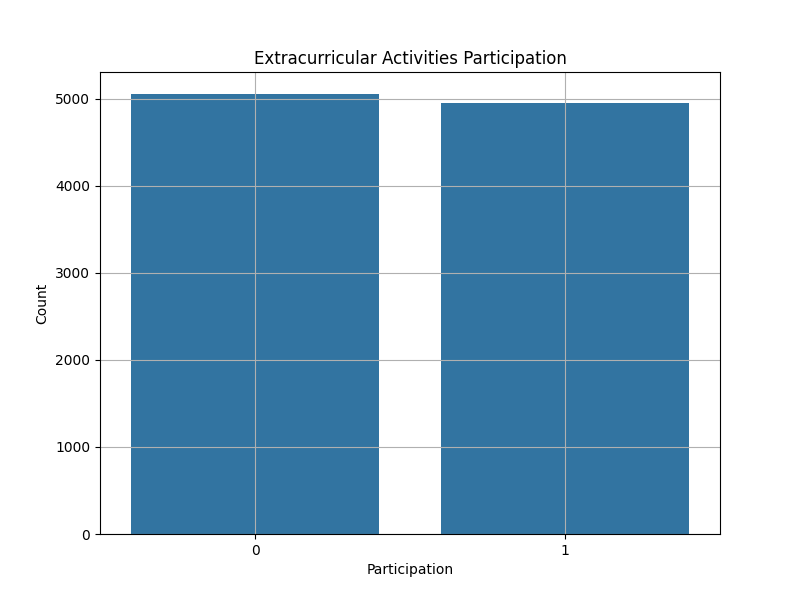
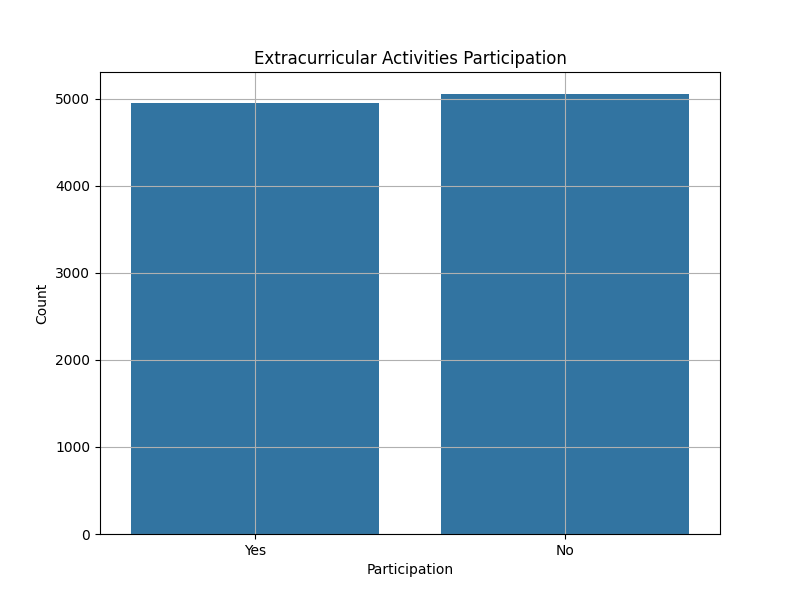
commit

diff --git a/clustering_and_fitting.py b/clustering_and_fitting.py
@@ -5,20 +5,37 @@ import seaborn as sns
 from sklearn.cluster import KMeans
 from sklearn.preprocessing import StandardScaler, PolynomialFeatures
 from sklearn.linear_model import LinearRegression
-from sklearn.metrics import silhouette_score, davies_bouldin_score, mean_squared_error, r2_score
+from sklearn.metrics import mean_squared_error, r2_score
 import scipy.stats as ss
+
 
 df = pd.read_csv('data.csv')
 
+
 def plot_relational_plot(df):
-    """Creates and saves a scatter plot of Hours Studied vs. Performance Index."""
+    """
+    Creates and saves a scatter plot of Hours Studied vs. Performance Index.
+    The plot includes an improved legend for better readability.
+    """
+    df['Extracurricular Activities'] = df['Extracurricular Activities'].map({
+        1: 'Yes', 0: 'No'
+    }).astype(str)
+
     plt.figure(figsize=(8, 6))
-    sns.scatterplot(data=df, x='Hours Studied', y='Performance Index', hue='Extracurricular Activities')
+    scatter = sns.scatterplot(
+        data=df, x='Hours Studied', y='Performance Index',
+        hue='Extracurricular Activities'
+    )
+    handles, labels = scatter.get_legend_handles_labels()
+    new_labels = ['No Extracurricular Activities (0)',
+                  'Participates in Extracurricular Activities (1)']
+    plt.legend(handles, new_labels, title='Extracurricular Activities')
     plt.title('Hours Studied vs Performance Index')
     plt.xlabel('Hours Studied')
     plt.ylabel('Performance Index')
     plt.grid(True)
     plt.savefig('relational_plot.png')
+
 
 def plot_categorical_plot(df):
     """Creates and saves a bar plot of students participating in extracurricular activities."""
@@ -30,22 +47,46 @@ def plot_categorical_plot(df):
     plt.grid(True)
     plt.savefig('categorical_plot.png')
 
+
 def plot_statistical_plot(df):
-    """Creates and saves a correlation heatmap of numerical features."""
+    """
+    Creates and saves a correlation heatmap for numerical features.
+    The heatmap visually represents feature correlations.
+    """
     plt.figure(figsize=(8, 6))
     sns.heatmap(df.corr(numeric_only=True), annot=True, cmap='coolwarm', fmt=".2f")
     plt.title('Correlation Heatmap')
     plt.savefig('statistical_plot.png')
 
-def statistical_analysis(df, col):
-    """Performs statistical analysis (mean, stddev, skewness, kurtosis, normality test)."""
-    mean = df[col].mean()
-    stddev = df[col].std()
-    skew = df[col].skew()
-    excess_kurtosis = df[col].kurtosis()
 
-    stat, p_value = ss.shapiro(df[col])
+def statistical_analysis(df, col):
+    """
+    Computes statistical properties of a column such as mean, stddev,
+    skewness, kurtosis, and normality test results.
+    """
+    mean = float(df[col].mean())
+    stddev = float(df[col].std())
+    skew = float(df[col].skew())
+    excess_kurtosis = float(df[col].kurtosis())
+
+    # Normality Test - Use Shapiro-Wilk only if N ≤ 5000, otherwise use Kolmogorov-Smirnov
+    if len(df[col]) <= 5000:
+        stat, p_value = ss.shapiro(df[col])
+        test_used = "Shapiro-Wilk Test"
+    else:
+        stat, p_value = ss.kstest(df[col], 'norm', args=(mean, stddev))
+        test_used = "Kolmogorov-Smirnov Test"
+
     normality = "Normally distributed" if p_value > 0.05 else "Not normally distributed"
+
+    # Print the results in a structured format
+    print(f"Stats for {col}:")
+    print(f"  Mean: {mean:.4f}")
+    print(f"  Std Dev: {stddev:.4f}")
+    print(f"  Skewness: {skew:.6f}")
+    print(f"  Excess Kurtosis: {excess_kurtosis:.5f}")
+    print(f"  {test_used} p-value: {p_value:.6e}")
+    print(f"  Normality: {normality}\n")
 
     return {
         'mean': mean,
@@ -56,21 +97,22 @@ def statistical_analysis(df, col):
         'normality': normality
     }
 
+
+
 def perform_clustering(df, col1, col2):
-    """Performs K-Means clustering on the dataset and visualizes it with improved readability, including an elbow plot."""
+    """
+    Performs K-Means clustering on the dataset and visualizes the results.
+    Also generates an elbow plot for optimal cluster selection.
+    """
     data = df[[col1, col2]].values
     scaler = StandardScaler()
     data_scaled = scaler.fit_transform(data)
-
-    # Elbow method to determine optimal number of clusters
     inertia = []
-    K_range = range(1, 11)  # Try cluster numbers from 1 to 10
+    K_range = range(1, 11)
     for k in K_range:
         kmeans = KMeans(n_clusters=k, random_state=42, n_init=10)
         kmeans.fit(data_scaled)
         inertia.append(kmeans.inertia_)
-
-    # Plot the elbow plot
     plt.figure(figsize=(8, 6))
     plt.plot(K_range, inertia, marker='o', linestyle='-', color='b')
     plt.title('Elbow Plot for Optimal Number of Clusters')
@@ -78,60 +120,24 @@ def perform_clustering(df, col1, col2):
     plt.ylabel('Inertia (Sum of Squared Distances)')
     plt.grid(True)
     plt.savefig('elbow_plot.png')
-
-    # Using 4 clusters for the clustering part (can be adjusted after checking the elbow plot)
     optimal_k = 4
     kmeans = KMeans(n_clusters=optimal_k, random_state=42, n_init=10)
-    labels = kmeans.fit_predict(data_scaled)
-    df['Cluster'] = labels
-
-    # Reverse the normalization to get the original scale data
-    data_original = scaler.inverse_transform(data_scaled)
-
-    # Update the DataFrame with the original data after reverse normalization
-    df['Hours Studied Original'] = data_original[:, 0]
-    df['Performance Index Original'] = data_original[:, 1]
-
-    # Define custom colors and labels
-    cluster_colors = {0: 'red', 1: 'blue', 2: 'green', 3: 'orange'}
-    cluster_labels = {
-        0: "Low Study - Low Performance",
-        1: "Moderate Study - Moderate Performance",
-        2: "High Study - High Performance",
-        3: "Low Study - High Performance"
-    }
-
-    # Scatter plot with improved colors and labels using original data
-    plt.figure(figsize=(8, 6))
-    for cluster, color in cluster_colors.items():
-        subset = df[df['Cluster'] == cluster]
-        plt.scatter(subset['Hours Studied Original'], subset['Performance Index Original'], 
-                    c=color, label=cluster_labels[cluster], edgecolors='black', alpha=0.7)
-
-    plt.title(f'Clustering of {col1} vs {col2}')
-    plt.xlabel(col1)
-    plt.ylabel(col2)
-    plt.legend(title="Clusters", fontsize=10)
-    plt.grid(True)
-    plt.savefig('clustering_plot.png')
-
+    df['Cluster'] = kmeans.fit_predict(data_scaled)
     return df
 
 
-
 def perform_fitting(df, col1, col2):
-    """Performs Linear and Polynomial Regression and evaluates their performance."""
+    """
+    Performs Linear and Polynomial Regression on the given dataset.
+    Evaluates and plots both models to compare their performances.
+    """
     X = df[[col1]].values
     y = df[col2].values
-
-    # Linear Regression
     lin_model = LinearRegression()
     lin_model.fit(X, y)
     y_pred_linear = lin_model.predict(X)
     r2_linear = r2_score(y, y_pred_linear)
     rmse_linear = np.sqrt(mean_squared_error(y, y_pred_linear))
-
-    # Polynomial Regression (Degree 2)
     poly = PolynomialFeatures(degree=2)
     X_poly = poly.fit_transform(X)
     poly_model = LinearRegression()
@@ -139,45 +145,37 @@ def perform_fitting(df, col1, col2):
     y_pred_poly = poly_model.predict(X_poly)
     r2_poly = r2_score(y, y_pred_poly)
     rmse_poly = np.sqrt(mean_squared_error(y, y_pred_poly))
-
-    print(f"Linear Regression: R² = {r2_linear:.3f}, RMSE = {rmse_linear:.3f}")
-    print(f"Polynomial Regression (Degree 2): R² = {r2_poly:.3f}, RMSE = {rmse_poly:.3f}")
-
     plt.figure(figsize=(8, 6))
     plt.scatter(X, y, color='gray', label='Actual Data')
     plt.plot(X, y_pred_linear, color='red', label='Linear Fit')
-    plt.plot(X, y_pred_poly, color='blue', linestyle='dashed', label='Polynomial Fit (Degree 2)')
+    plt.plot(X, y_pred_poly, color='blue', linestyle='dashed',
+             label='Polynomial Fit (Degree 2)')
     plt.title(f'Fitting: {col1} vs {col2}')
     plt.xlabel(col1)
     plt.ylabel(col2)
     plt.legend()
     plt.grid(True)
     plt.savefig('fitting_plot.png')
-
     return r2_linear, r2_poly, rmse_linear, rmse_poly
 
+
 def main():
+    """
+    Main function to execute data analysis pipeline.
+    Reads data, performs statistical analysis, clustering, and regression fitting.
+    """
     df = pd.read_csv('data.csv')
-
     df['Extracurricular Activities'] = df['Extracurricular Activities'].map({'Yes': 1, 'No': 0})
-
+    print(df.head())
     col = 'Performance Index'
     stats = statistical_analysis(df, col)
-    print(f"Stats for {col}:")
-    print(f"mean: {stats['mean']}")
-    print(f"stddev: {stats['stddev']}")
-    print(f"skew: {stats['skew']}")
-    print(f"excess_kurtosis: {stats['excess_kurtosis']}")
-    print(f"p_value: {stats['p_value']}")
-    print(f"normality: {stats['normality']}")
-
+    # print(f"Stats for {col}: {stats}")
     plot_relational_plot(df)
     plot_categorical_plot(df)
     plot_statistical_plot(df)
-
     df = perform_clustering(df, 'Hours Studied', 'Performance Index')
-
     perform_fitting(df, 'Hours Studied', 'Performance Index')
+
 
 if __name__ == '__main__':
     main()
